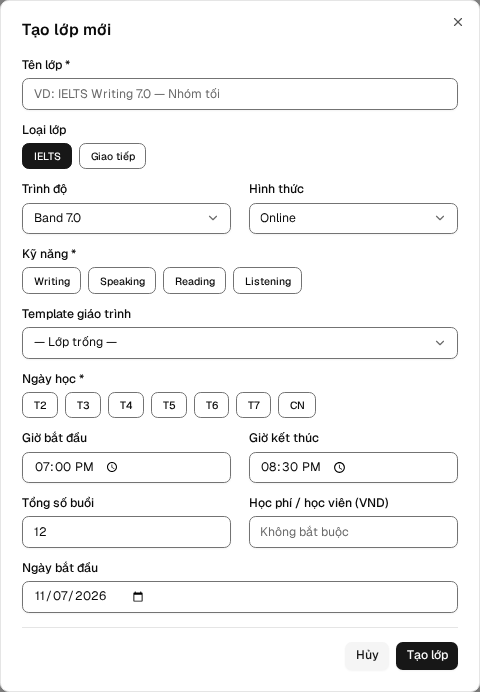
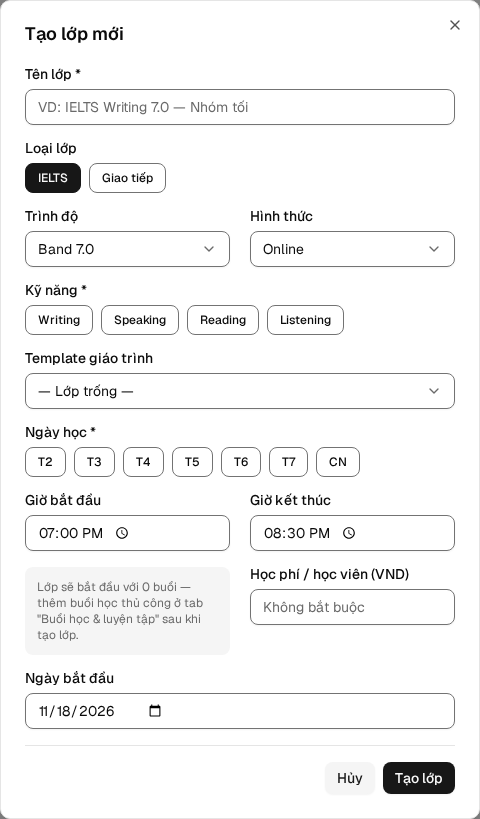
test(e2e): update pixel assertions for 16px root font

diff --git a/apps/e2e/specs/sidebar-collapse.spec.ts b/apps/e2e/specs/sidebar-collapse.spec.ts
@@ -27,12 +27,12 @@ async function expectSidebarWidth(page: Page, px: number) {
 		.toBeLessThanOrEqual(2);
 }
 
-test("desktop: toggle co rail còn 56px (4rem ở root 14px) và mở lại đúng 224px = 16rem ở root 14px (track 16rem của shell v2)", async ({
+test("desktop: toggle co rail còn 64px (4rem ở root 16px) và mở lại đúng 256px = 16rem ở root 16px (track 16rem của shell v2)", async ({
 	page,
 }) => {
 	await page.setViewportSize(DESKTOP);
 	await signUpViaApi(page);
-	await expectSidebarWidth(page, 224);
+	await expectSidebarWidth(page, 256);
 
 	const toggle = page.getByTestId("sidebar-toggle");
 	await expect(toggle).toHaveAttribute(
@@ -44,7 +44,7 @@ test("desktop: toggle co rail còn 56px (4rem ở root 14px) và mở lại đú
 		"aria-label",
 		"Mở rộng thanh điều hướng",
 	);
-	await expectSidebarWidth(page, 56);
+	await expectSidebarWidth(page, 64);
 
 	// Expand back to the original geometry.
 	await toggle.click();
@@ -52,7 +52,7 @@ test("desktop: toggle co rail còn 56px (4rem ở root 14px) và mở lại đú
 		"aria-label",
 		"Thu gọn thanh điều hướng",
 	);
-	await expectSidebarWidth(page, 224);
+	await expectSidebarWidth(page, 256);
 });
 
 test("persistence: reload giữ trạng thái collapsed/expanded qua localStorage", async ({
@@ -62,7 +62,7 @@ test("persistence: reload giữ trạng thái collapsed/expanded qua localStorag
 	await signUpViaApi(page);
 
 	await page.getByTestId("sidebar-toggle").click();
-	await expectSidebarWidth(page, 56);
+	await expectSidebarWidth(page, 64);
 	await page.reload();
 	await expect(page.getByTestId("sidebar-toggle")).toBeVisible();
 	await expect(
@@ -71,14 +71,14 @@ test("persistence: reload giữ trạng thái collapsed/expanded qua localStorag
 			SIDEBAR_COLLAPSED_KEY,
 		),
 	).resolves.toBe("true");
-	await expectSidebarWidth(page, 56);
+	await expectSidebarWidth(page, 64);
 
 	await page.getByTestId("sidebar-toggle").click();
 	await page.reload();
-	await expectSidebarWidth(page, 224);
+	await expectSidebarWidth(page, 256);
 });
 
-test("mobile <1024px với collapsed=true: drawer vẫn full-label 252px", async ({
+test("mobile <1024px với collapsed=true: drawer vẫn full-label 288px", async ({
 	page,
 }) => {
 	await page.setViewportSize(MOBILE);
@@ -103,7 +103,7 @@ test("mobile <1024px với collapsed=true: drawer vẫn full-label 252px", async
 	await expect(drawer.getByTestId("sidebar-user-email")).toBeAttached();
 
 	const box = await drawer.boundingBox();
-	expect(Math.round(box?.width ?? 0)).toBe(252); // w-72 = 18rem ở root 14px
+	expect(Math.round(box?.width ?? 0)).toBe(288); // w-72 = 18rem ở root 16px
 });
 
 test("điều hướng từ rail: click icon Học viên tới /students và testid email còn DOM", async ({
@@ -112,7 +112,7 @@ test("điều hướng từ rail: click icon Học viên tới /students và tes
 	await page.setViewportSize(DESKTOP);
 	await signUpViaApi(page);
 	await page.getByTestId("sidebar-toggle").click();
-	await expectSidebarWidth(page, 56);
+	await expectSidebarWidth(page, 64);
 
 	// Icon-only item still navigates; the accessible name (sr-only label)
 	// is what makes this role-based locator resolvable at all.
@@ -123,7 +123,7 @@ test("điều hướng từ rail: click icon Học viên tới /students và tes
 	await expect(page).toHaveURL(/\/students$/);
 	await expect(page.getByTestId("sidebar-user-email")).toBeAttached();
 
-	// Rail footer geometry (v2, rail 56px): avatar link and logout must stack
+	// Rail footer geometry (v2, rail 64px): avatar link and logout must stack
 	// vertically and stay inside the rail, not overflow horizontally.
 	const railFooter = await page.evaluate(() => {
 		const aside = document.querySelector("aside.sidebar");

diff --git a/apps/e2e/specs/rich-text-content.spec.ts b/apps/e2e/specs/rich-text-content.spec.ts
@@ -290,26 +290,26 @@ test("callsite min-height utilities override the layered ProseMirror base", asyn
 }) => {
 	await signUpViaApi(page);
 
-	// test-header-form "Mô tả" carries min-h-22 = 5.5rem = 77px @14px root.
+	// test-header-form "Mô tả" carries min-h-22 = 5.5rem = 88px @16px root.
 	await page.goto("/assignments/tests/new");
 	await expect(page.getByLabel("Mô tả")).toBeVisible();
 	expect(
 		await page
 			.getByLabel("Mô tả")
 			.evaluate((el) => getComputedStyle(el).minHeight),
-	).toBe("77px");
+	).toBe("88px");
 
-	// prompt-composer main prompt carries min-h-42 = 10.5rem = 147px.
+	// prompt-composer main prompt carries min-h-42 = 10.5rem = 168px.
 	await page.goto("/assignments/new");
 	await expect(page.getByLabel("Nội dung đề")).toBeVisible();
 	expect(
 		await page
 			.getByLabel("Nội dung đề")
 			.evaluate((el) => getComputedStyle(el).minHeight),
-	).toBe("147px");
+	).toBe("168px");
 
 	// Admin library part editor: PartContentFields "Ghi chú nội bộ" and
-	// AnswerKeyGrid "Giải thích câu 1" both carry min-h-16 = 4rem = 56px.
+	// AnswerKeyGrid "Giải thích câu 1" both carry min-h-16 = 4rem = 64px.
 	await ensureAdminAccount(request);
 	await adminOpenNewTestPage(page);
 	await page.getByLabel("Tiêu đề", { exact: true }).fill("QC-438 MinH16");
@@ -326,7 +326,7 @@ test("callsite min-height utilities override the layered ProseMirror base", asyn
 		await page
 			.getByLabel("Ghi chú nội bộ")
 			.evaluate((el) => getComputedStyle(el).minHeight),
-	).toBe("56px");
+	).toBe("64px");
 	await page
 		.getByRole("tablist", { name: "Các tab Passage 1" })
 		.getByRole("tab", { name: "Câu hỏi", exact: true })
@@ -336,5 +336,5 @@ test("callsite min-height utilities override the layered ProseMirror base", asyn
 		await page
 			.getByLabel("Giải thích câu 1")
 			.evaluate((el) => getComputedStyle(el).minHeight),
-	).toBe("56px");
+	).toBe("64px");
 });

diff --git a/apps/e2e/specs/auth-form-spacing.spec.ts b/apps/e2e/specs/auth-form-spacing.spec.ts
@@ -1,17 +1,17 @@
 import { expect, test } from "@playwright/test";
 import { ADMIN_ORIGIN, STUDENT_ORIGIN } from "./origins";
 
-// gap-4 in Tailwind is 1rem. With base font-size 14px in globals.css, computed rowGap is 14px.
-const EXPECTED_ROW_GAPS = ["14px", "16px"];
+// gap-4 in Tailwind is 1rem. With base font-size 16px in globals.css, computed rowGap is 16px.
+const EXPECTED_ROW_GAPS = ["16px"];
 
 test.describe("Auth Form Field Spacing (#568)", () => {
-	test("Web auth forms: rowGap is 14px (1rem) and hidden tabs stay display:none", async ({
+	test("Web auth forms: rowGap is 16px (1rem) and hidden tabs stay display:none", async ({
 		page,
 	}) => {
 		// 1. Web login page
 		await page.goto("/login");
 
-		// Default active panel should have rowGap 14px/16px (1rem)
+		// Default active panel should have rowGap 16px (1rem)
 		const activeForm = page.locator("form:not([hidden])").first();
 		await expect(activeForm).toBeVisible();
 		const rowGapDefault = await activeForm.evaluate(
@@ -57,7 +57,7 @@ test.describe("Auth Form Field Spacing (#568)", () => {
 		expect(EXPECTED_ROW_GAPS).toContain(resetGap);
 	});
 
-	test("Student auth forms: rowGap is 14px (1rem) and hidden tabs stay display:none", async ({
+	test("Student auth forms: rowGap is 16px (1rem) and hidden tabs stay display:none", async ({
 		page,
 	}) => {
 		// 1. Student login page
@@ -108,7 +108,7 @@ test.describe("Auth Form Field Spacing (#568)", () => {
 		expect(EXPECTED_ROW_GAPS).toContain(resetGap);
 	});
 
-	test("Admin auth forms: rowGap is 14px (1rem)", async ({ page }) => {
+	test("Admin auth forms: rowGap is 16px (1rem)", async ({ page }) => {
 		// 1. Admin login page
 		await page.goto(`${ADMIN_ORIGIN}/login`);
 		const signinForm = page.locator("#panel-signin");

diff --git a/apps/e2e/specs/teacher-essay-annotations.spec.ts b/apps/e2e/specs/teacher-essay-annotations.spec.ts
@@ -316,8 +316,8 @@ test.describe("Teacher essay annotations (#332)", () => {
 			await gradeCard.evaluate((el) => getComputedStyle(el).position),
 		).toBe("sticky");
 
-		// Sticky dính khi cuộn: ở root 14px (design v2), py-6 = 21px và
-		// max-h (100svh − 6rem = 636px) nên ở đáy trang stickyY ≈ 62.6px.
+		// Sticky dính khi cuộn: ở root 16px (design v2), py-6 = 24px và
+		// max-h = 100svh − 6rem nên ở đáy trang stickyY rơi trong band dưới.
 		// Band [56, 88] khoá cả hai mép mà không ghim con số.
 		await studentPage.evaluate(() =>
 			window.scrollTo(0, document.body.scrollHeight),
